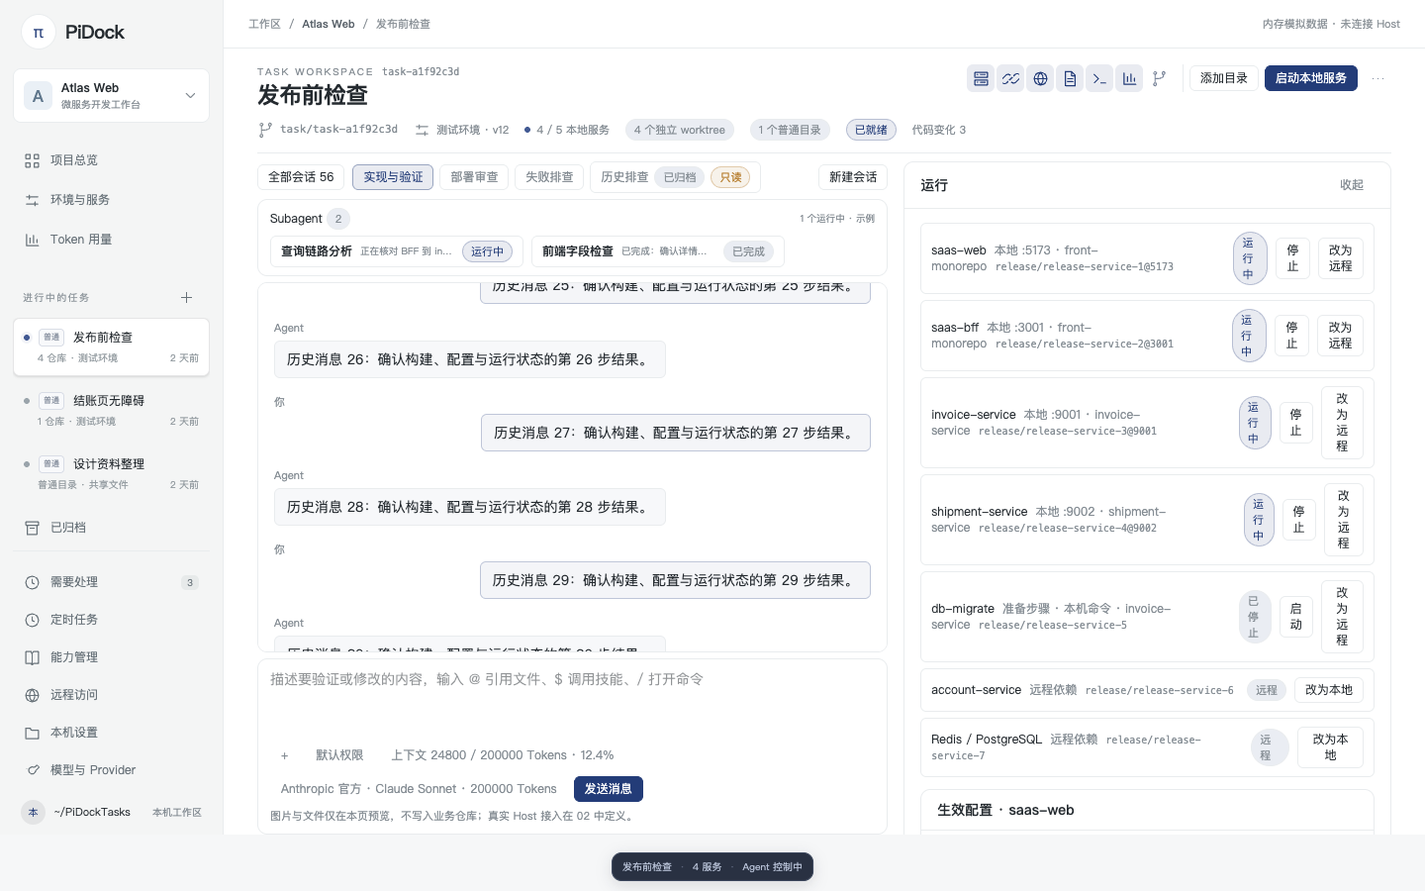
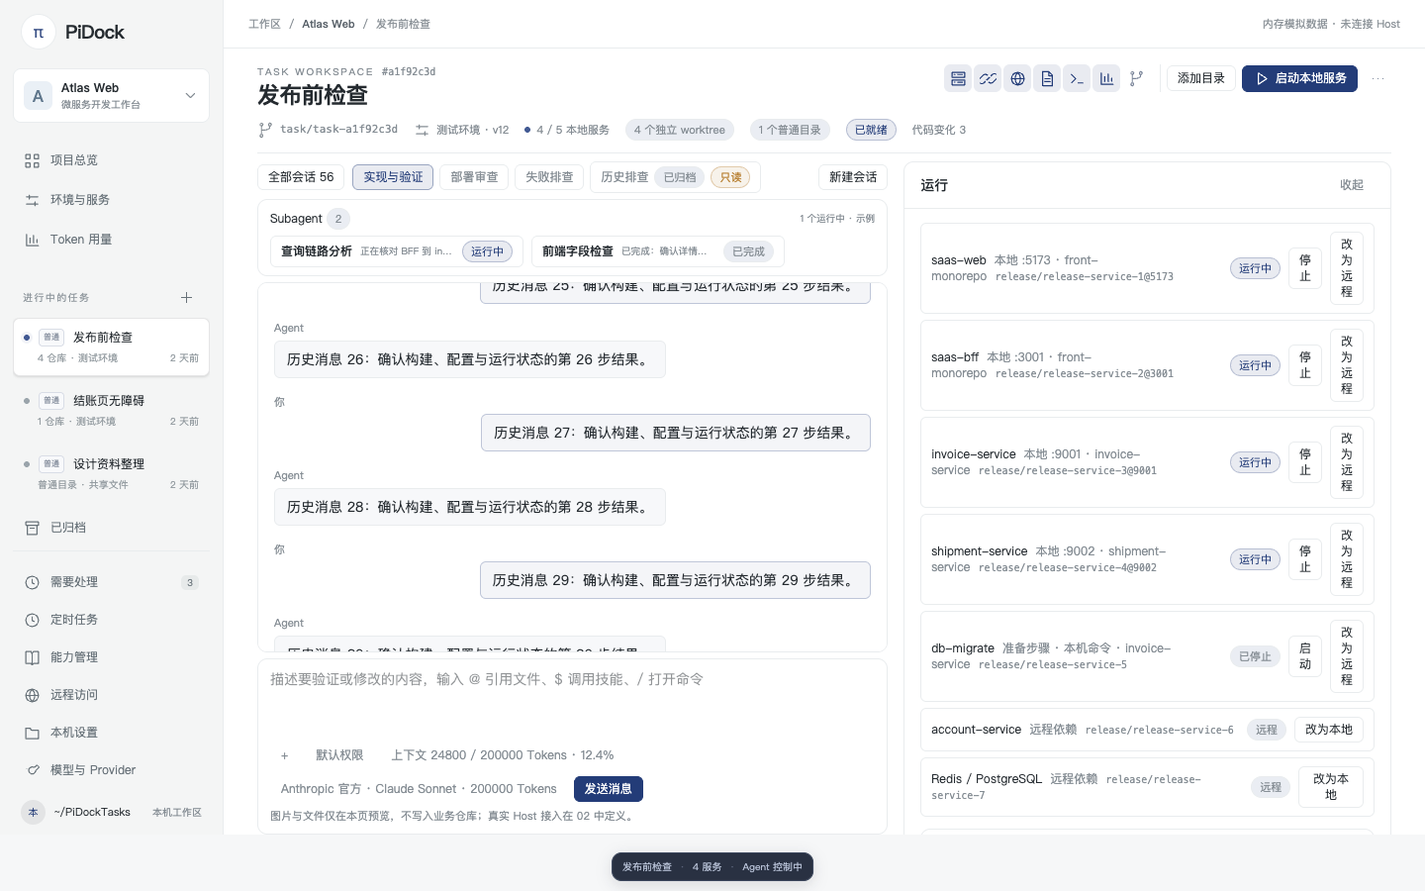
fix(renderer): close S2 review notes on tab wrap, a11y and evidence accuracy (#27)
Review follow-up for [#27], renderer only plus the slice's evidence:

- Badge: `whitespace-nowrap`. A squeezed session tab wrapped its CJK badge
  (已归档/只读/write-role) onto a second line and grew the 32px tab row to
  48px whenever the tool panel narrowed the column. All 9 measured states
  (3 viewports x 3 panel states) are 32px again, and the 1280/1024
  panel-open states recover 16px of message area (1280 358->374,
  1024 218->234).
- IconButton: emit `aria-pressed` only when the caller passes `selected`. The
  `···` menu trigger no longer announces itself as a toggle next to
  `aria-haspopup="menu"`; the tool launcher and the Subagent rail keep it.
- Icon: drop the unused `check` glyph; use `play`/`stop` on the run toggle
  (the prototype's `toggle-run` glyphs).
- Header eyebrow: `TASK WORKSPACE #<key>` instead of the bare workspace key.
  The product has no task ordinal, so the key (without its `task-` prefix)
  stands in for the prototype's `#001`; the full key stays in the `title`.
- Run toggle: always rendered for a Git task, `disabled` with an explanatory
  title when the task has no local service (prototype renders `toggle-run`
  unconditionally).
- Tests: new keyboard-open (Enter/Space) and `End` assertions, a no
  `aria-pressed` assertion on the menu trigger, the eyebrow form, and the
  disabled run toggle reached by switching every local service to remote.
  46 files / 395 tests (was 393).
[…]

diff --git a/packages/renderer/src/test/taskHeaderFlow.test.tsx b/packages/renderer/src/test/taskHeaderFlow.test.tsx
@@ -5,8 +5,8 @@ import { useHostStore } from "../stores/host";
 import { actStore, renderApp } from "./helpers";
 
 // Flow: [UI 对齐 03] (#27) the task header follows prototype A
-// (`prototypes/pidock-ui/app.js` `header()`): a `TASK WORKSPACE #nnn` eyebrow, the
-// title, one `actionset` (tool launcher icons, Subagent trigger, 添加目录, the
+// (`prototypes/pidock-ui/app.js` `header()`): a `TASK WORKSPACE #<key>` eyebrow,
+// the title, one `actionset` (tool launcher icons, Subagent trigger, 添加目录, the
 // local-service run toggle and the `···` 任务操作 menu) and a single `.meta` line.
 // The former second row of text buttons is gone, so every secondary action must
 // stay reachable through the menu — the mapping is asserted below.
@@ -74,6 +74,32 @@ describe("task header actionset", () => {
     expect(within(header).getByText("4 个独立 worktree")).toBeInTheDocument();
     expect(within(header).getByText("1 个普通目录")).toBeInTheDocument();
     expect(within(header).getByText("TASK WORKSPACE")).toBeInTheDocument();
+    // Prototype `TASK WORKSPACE #001`: the product has no ordinal, so the task
+    // key stands in (without the `task-` prefix) and the full key stays in the
+    // eyebrow's `title`.
+    expect(within(header).getByText("#a1f92c3d")).toBeInTheDocument();
+    expect(within(header).getByText("TASK WORKSPACE").closest("[title]")).toHaveAttribute(
+      "title",
+      expect.stringContaining("task-a1f92c3d"),
+    );
+  });
+
+  it("keeps the run toggle visible but disabled when the task has no local service", async () => {
+    renderApp("/projects/atlas/tasks/release?session=main");
+    await screen.findByRole("heading", { name: "发布前检查" });
+    // Flip every local service to the remote test environment through the
+    // existing seam; the prototype's `toggle-run` still renders.
+    const before = await useHostStore.getState().task("release");
+    const localIds = (before?.services ?? []).filter((service) => service.mode === "local").map((service) => service.id);
+    expect(localIds.length).toBeGreaterThan(0);
+    for (const id of localIds) {
+      await actStore(async () => {
+        await useHostStore.getState().setServiceMode("release", id, "remote");
+      });
+    }
+    const toggle = await screen.findByRole("button", { name: "启动本地服务" });
+    expect(toggle).toBeDisabled();
+    expect(toggle).toHaveAttribute("title", "当前任务没有本地服务");
   });
 });
 
@@ -103,6 +129,9 @@ describe("task 任务操作 menu", () => {
     await screen.findByRole("heading", { name: "发布前检查" });
 
     const trigger = screen.getByRole("button", { name: "任务操作" });
+    // The trigger is a menu button, not a toggle: it must not carry
+    // `aria-pressed` next to `aria-haspopup` (#27 review note).
+    expect(trigger).not.toHaveAttribute("aria-pressed");
     await user.click(trigger);
     const menu = await screen.findByRole("menu", { name: "任务操作" });
     const items = within(menu).getAllByRole("menuitem");
@@ -114,10 +143,29 @@ describe("task 任务操作 menu", () => {
     expect(items[items.length - 1]).toHaveFocus();
     await user.keyboard("{Home}");
     expect(items[0]).toHaveFocus();
+    await user.keyboard("{End}");
+    expect(items[items.length - 1]).toHaveFocus();
 
     await user.keyboard("{Escape}");
     expect(screen.queryByRole("menu", { name: "任务操作" })).not.toBeInTheDocument();
     await expect(trigger).toHaveFocus();
+  });
+
+  it("opens from the keyboard on the focused trigger and ignores a second Escape", async () => {
+    const user = userEvent.setup();
+    renderApp("/projects/atlas/tasks/release?session=main");
+    await screen.findByRole("heading", { name: "发布前检查" });
+
+    const trigger = screen.getByRole("button", { name: "任务操作" });
+    trigger.focus();
+    await user.keyboard("{Enter}");
+    expect(await screen.findByRole("menu", { name: "任务操作" })).toBeInTheDocument();
+    await user.keyboard("{Escape}");
+    expect(screen.queryByRole("menu", { name: "任务操作" })).not.toBeInTheDocument();
+
+    trigger.focus();
+    await user.keyboard("{ }");
+    expect(await screen.findByRole("menu", { name: "任务操作" })).toBeInTheDocument();
   });
 
   it("closes when a pointer press lands outside the menu", async () => {

diff --git a/packages/renderer/src/pages/TaskPage.tsx b/packages/renderer/src/pages/TaskPage.tsx
@@ -352,13 +352,22 @@ export function TaskPage({ task, sessionId }: { task: Task; sessionId: string })
             <Button size="sm" onClick={() => openModal({ type: "task-sources", taskId: task.id })}>
               添加目录
             </Button>
-            {localServices.length > 0 ? (
+            {/* Prototype `toggle-run` (`app.js` header) renders for every Git
+                task; with no local service there is nothing to start, so the
+                button stays visible but disabled and says why. */}
+            {!directoryOnly ? (
               <Button
                 size="sm"
                 variant={allRunning ? "default" : "primary"}
-                title={`${allRunning ? "停止" : "启动"}本任务的全部 ${localServices.length} 个本地服务`}
+                disabled={localServices.length === 0}
+                title={
+                  localServices.length === 0
+                    ? "当前任务没有本地服务"
+                    : `${allRunning ? "停止" : "启动"}本任务的全部 ${localServices.length} 个本地服务`
+                }
                 onClick={toggleLocalServices}
               >
+                <Icon name={allRunning ? "stop" : "play"} className="h-3.5 w-3.5" />
                 {allRunning ? "停止服务" : "启动本地服务"}
               </Button>
             ) : null}
@@ -527,8 +536,10 @@ const PANEL_ICONS: Record<ToolPanel, IconName> = {
  * dev/memory, `task.json` through the shell); errors stay bound to this
  * task id so a failure never surfaces as another task's header.
  *
- * [UI 对齐 03] (#27) the prototype's `.taskheader`: `TASK WORKSPACE #nnn`
- * eyebrow, `h1`, one `actionset` (passed in — the tool launcher, 添加目录, the
+ * [UI 对齐 03] (#27) the prototype's `.taskheader`: `TASK WORKSPACE #<key>`
+ * eyebrow (the prototype's `#001` ordinal does not exist in the product, so the
+ * task key stands in; the full `workspaceKey` stays in the eyebrow's `title`),
+ * `h1`, one `actionset` (passed in — the tool launcher, 添加目录, the
  * local-service run toggle and the `···` menu) and a single `.meta` line
  * (branch / environment·version / running local services / worktree+directory
  * badges). The former second row of text buttons is gone; repository names and
@@ -583,6 +594,10 @@ function TaskHeader({ task, actions }: { task: Task; actions: ReactNode }) {
   }, [adapter, task.id]);
   const changedCount = task.files.length;
   const directoryOnly = task.repos.length === 0 && task.directories.length > 0;
+  // Prototype eyebrow is a `TASK WORKSPACE` label plus a number; the product
+  // has no ordinal, so the task key stands in for it, prefixed with `#` (the
+  // full `task-…` key stays in the eyebrow's `title`).
+  const eyebrowKey = task.workspaceKey.replace(/^task-/, "");
   const workspace = useHostStore((state) => state.workspace);
   const environmentName =
     workspace?.environments.find((item) => item.id === task.environmentId)?.name ?? task.environmentId;
@@ -607,7 +622,10 @@ function TaskHeader({ task, actions }: { task: Task; actions: ReactNode }) {
             ) : (
               <>
                 TASK WORKSPACE
-                <span className="ml-2 font-mono tracking-normal normal-case">{task.workspaceKey}</span>
+                {/* Prototype `TASK WORKSPACE #001`: the product has no task
+                    ordinal, so the eyebrow shows the task key without its
+                    `task-` prefix; the full `workspaceKey` stays in the title. */}
+                <span className="ml-2 font-mono tracking-normal normal-case">#{eyebrowKey}</span>
               </>
             )}
           </div>

diff --git a/packages/renderer/src/components/ui.tsx b/packages/renderer/src/components/ui.tsx
@@ -27,12 +27,16 @@ export function Button({ variant = "default", size = "md", className = "", ...re
  * uses the soft accent). `aria-label` is the accessible name; `title` carries
  * the longer action wording when the two differ. `ref` arrives as a plain prop
  * (React 19) and is spread onto the button, so callers can manage focus.
+ * `aria-pressed` is emitted only when the caller passes `selected`: a toggle
+ * (tool launcher, Subagent rail) needs it, while a menu trigger must not
+ * announce itself as a toggle next to `aria-haspopup` ([UI 对齐 03] #27 review
+ * note).
  */
 export function IconButton({
   icon,
   label,
   title,
-  selected = false,
+  selected,
   className = "",
   ...rest
 }: ComponentPropsWithRef<"button"> & {
@@ -48,7 +52,14 @@ export function IconButton({
     className,
   ].join(" ");
   return (
-    <button type="button" aria-label={label} title={title ?? label} aria-pressed={selected} className={classes} {...rest}>
+    <button
+      type="button"
+      aria-label={label}
+      title={title ?? label}
+      {...(selected === undefined ? {} : { "aria-pressed": selected })}
+      className={classes}
+      {...rest}
+    >
       <Icon name={icon} />
     </button>
   );
@@ -61,7 +72,11 @@ export function Badge({ children, tone = "neutral" }: { children: ReactNode; ton
     warn: "border-orange/35 bg-orange/10 text-orange",
   } as const;
   return (
-    <span className={`inline-flex items-center rounded-full border px-2 py-0.5 text-[11px] leading-4 ${tones[tone]}`}>
+    // `whitespace-nowrap`: a squeezed tab strip must not wrap a CJK badge onto a
+    // second line and grow the 32px session row ([UI 对齐 03] #27 review note).
+    <span
+      className={`inline-flex items-center rounded-full border px-2 py-0.5 text-[11px] leading-4 whitespace-nowrap ${tones[tone]}`}
+    >
       {children}
     </span>
   );

diff --git a/packages/renderer/src/test/modals.test.tsx b/packages/renderer/src/test/modals.test.tsx
@@ -93,7 +93,12 @@ describe("new-task workspace preview", () => {
     await user.click(within(dialog).getByRole("button", { name: "创建任务" }));
 
     expect(await screen.findByRole("heading", { name: "预览键校验" })).toBeInTheDocument();
-    expect(screen.getByText(key)).toBeInTheDocument();
+    // [UI 对齐 03] (#27) the header eyebrow shows the task key with a `#`
+    // instead of the prototype's ordinal, and keeps the full key in its title:
+    // the created task still displays the key the form previewed.
+    const eyebrow = screen.getByText(key.replace(/^task-/, "#"));
+    expect(eyebrow).toBeInTheDocument();
+    expect(eyebrow.closest("[title]")).toHaveAttribute("title", expect.stringContaining(key));
   });
 
   it("keeps the form on blank baseline: no orphan task", async () => {

diff --git a/packages/renderer/src/components/Icon.tsx b/packages/renderer/src/components/Icon.tsx
@@ -6,6 +6,8 @@
  * the glyphs the shell uses are kept here; pages add their own when they are
  * aligned. `link` is the protocol glyph: the prototype has no protocol tool,
  * and the 协议 panel is about generated artifacts and their local bindings.
+ * `play`/`stop` are the prototype's `toggle-run` glyphs, used by the header's
+ * local-service run toggle ([UI 对齐 03] #27).
  */
 
 export const ICON_PATHS = {
@@ -28,7 +30,6 @@ export const ICON_PATHS = {
   more: "M5 12h.01 M12 12h.01 M19 12h.01",
   play: "M8 4l12 8-12 8Z",
   stop: "M5 5h14v14H5z",
-  check: "M5 12l4 4L19 6",
 } as const;
 
 export type IconName = keyof typeof ICON_PATHS;

diff --git a/docs/evidence/ui-alignment-s2/verification-log.md b/docs/evidence/ui-alignment-s2/verification-log.md
@@ -7,22 +7,23 @@
 node docs/evidence/ui-alignment-s2/capture-vertical.mjs
 ```
 
-产物：`vertical-budget.json`（逐区块高度 / 消息区高度与占比 / 横向溢出）、`renderer/*.png`（渲染层 1440×900 三种面板状态 + `任务操作` 菜单 + 普通目录任务）、`prototype/1440-prototype-A.png`（原型对照）。脚本输出写回本目录，可在任意 cwd 重跑。
+产物：`vertical-budget.json`（逐区块高度 / 消息区高度与占比 / 横向溢出，**9 组状态** = 3 视口 × 3 面板态）、`renderer/*.png`（渲染层 **5 张**：1440×900 三种面板状态 + `任务操作` 菜单 + 普通目录任务）、`prototype/1440-prototype-A.png`（原型对照，1 张）。脚本输出写回本目录，可在任意 cwd 重跑。
 
 ## 1. 验收结论
 
 | # | 验收项 | 结论 | 证据 |
 | --- | --- | --- | --- |
-| 1 | 头部按原型：`TASK WORKSPACE #nnn` eyebrow + 大标题 + 图标工具条 + 添加目录 + 启动/停止服务 + `···` + 单行 chips | COVERED | `TaskPage.tsx` 的 `TaskHeader`、`components/IconButton`（`ui.tsx`）、`components/TaskActionMenu.tsx`；截图 `renderer/1440-closed.png`；eyebrow 实测文本 `TASK WORKSPACE task-a1f92c3d`（原型 `TASK WORKSPACE #001`，本任务无序号，改用 workspaceKey） |
+| 1 | 头部按原型：`TASK WORKSPACE #<key>` eyebrow + 大标题 + 图标工具条 + 添加目录 + 启动/停止服务 + `···` + 单行 chips | COVERED | `TaskPage.tsx` 的 `TaskHeader`、`components/IconButton`（`ui.tsx`）、`components/TaskActionMenu.tsx`；截图 `renderer/1440-closed.png`；eyebrow 实测文本 `TASK WORKSPACE #a1f92c3d`（原型 `TASK WORKSPACE #001`；产品无任务序号，用去掉 `task-` 前缀的任务键充当，完整 `workspaceKey` 保留在 eyebrow 的 `title`） |
 | 2 | 原文字按钮行消失；所有原入口仍可达 | COVERED | 见 §3 映射表；`taskHeaderFlow.test.tsx` 断言 `getAllByRole("button",{name:"运行"})` 长度 1、未开菜单时不存在「归档当前任务」「审阅与交付」按钮 |
-| 3 | `···` 收纳次要/破坏性动作，键盘可达 | COVERED | 菜单实测项：`["重命名任务","新建会话","查看全部会话","Subagent 列表（2）","管理仓库与目录","审阅与交付","归档当前任务"]`（`vertical-budget.json.menuItems`）；用例覆盖 Enter/Space 打开、方向键/Home/End 循环、Esc 关闭并回焦、点击外部关闭 |
+| 3 | `···` 收纳次要/破坏性动作，键盘可达 | COVERED | 菜单实测项：`["重命名任务","新建会话","查看全部会话","Subagent 列表（2）","管理仓库与目录","审阅与交付","归档当前任务"]`（`vertical-budget.json.menuItems`）；用例实测覆盖：点击打开、**Enter/Space 打开**（`taskHeaderFlow.test.tsx` 新增用例）、首项聚焦、`↓`/`↑`（含回绕）、`Home`、**`End`**、Esc 关闭并回焦、点击外部关闭；触发器不再带 `aria-pressed`（新增断言） |
 | 4 | 纵向预算：1440×900 无面板 ≥400px（≥45%）；1 个面板 ≥330px | COVERED | **无面板 408px（45.3%）**、**1 个面板 374px（41.5%）**、6 个面板 374px（`vertical-budget.json.states["1440x900-*"]`） |
 | 5 | Subagent 卡区不常占高度 | COVERED | 仅在当前会话存在 Subagent 时渲染（`TaskPage.tsx` 条件 + `SessionSubagentList` 空数组返回 null，`restoredFlows.test.tsx`「切换会话后子代理列表消失」用例仍覆盖），且压缩为单行卡片：122px → **78px**（原型同区块 117px） |
 | 6 | 输入区不因本切片变高（≤150px @1440×900 空内容） | COVERED（含披露） | 无面板 **145px** ✓；打开面板时 **179px** —— 该增长在切片前基线同样存在（窄列下两个控件簇折行），属 S4「输入框与附件」范围，本切片未改输入区 |
-| 7 | 会话标签改用 `below-*` 断点 | COVERED | `TaskPage.tsx` 非活跃标签 `flex below-mid:hidden`（原 `hidden md:flex`）；标签行改为不折行（48px → **32px**） |
+| 7 | 会话标签改用 `below-*` 断点 | COVERED | `TaskPage.tsx` 非活跃标签 `flex below-mid:hidden`（原 `hidden md:flex`）；标签行改为不折行：`Badge` 加 `whitespace-nowrap` 后 **9 组状态全部 32px**（修复前 1280/1024 开面板时为 48px，见 §2） |
 | 8 | 底部摘要栏按时降级 | COVERED | `ShellSummaryBar.tsx`：≤960 隐藏浏览器控制者段、≤720 隐藏服务段并收紧 padding/gap（原型 `.switcher .state{display:none}`、`@media(max-width:720px){.switcher{gap:2px;padding:6px}}`） |
 | 9 | 顺带修 #26 两条 P2 | COVERED | `Shell.tsx`：页类页面中间档改四边 `p-[25px]`；子代理独立栏 ≤720 改 `below-stack:min-h-[620px]`（原型 `.subagent-sidebar{height:620px}`），工具面板仍 `below-stack:min-h-[500px]` |
-| 10 | 既有用例零回归 + 新增用例 | COVERED | renderer **46 文件 / 393 例**（切片前 45/384，新增 `taskHeaderFlow.test.tsx` 9 例）；唯一改动既有用例：`restoredFlows.test.tsx` 交付流程改从菜单进入（入口按本切片迁移，断言未减弱） |
+| 9b | 原型保真补充：非普通目录任务的 `启动/停止服务` 始终渲染 | COVERED | 无本地服务时 `disabled` + `title="当前任务没有本地服务"`（原型 `toggle-run` 无条件渲染）；用例：把全部本地服务切为 `remote` 后断言按钮存在、禁用、title 正确 |
+| 10 | 既有用例零回归 + 新增用例 | COVERED | renderer **46 文件 / 395 例**（切片前 45/384；`taskHeaderFlow.test.tsx` 9 → 11 例）；改动既有用例 2 处，断言未减弱：`restoredFlows.test.tsx` 交付流程改从菜单进入（入口按本切片迁移），`modals.test.tsx`「新建任务后显示预览键」改为断言 `#<key>` 形式 + `title` 仍含完整 `task-…` 键 |
 | 11 | 证据提交进 `docs/evidence/**` | COVERED | 本目录 |
 | 12 | 门禁全绿 | COVERED | §4 |
 
@@ -36,18 +37,28 @@ node docs/evidence/ui-alignment-s2/capture-vertical.mjs
 | 1440×900 1 面板 · 消息区 | 237px | **374px（41.5%）** |
 | 1440×900 无面板 · 头部（含原文字按钮行） | 45 + 26 = 71px | **106px**（单块，含 eyebrow/标题/actionset/meta） |
 | 1440×900 1 面板 · 头部 | 63 + 42 = 105px | **106px**（与宽度无关） |
-| 1440×900 会话标签行 | 32px | 32px（1280 时由 48 → 32） |
+| 1440×900 会话标签行 | 32px | 32px |
 | 1440×900 Subagent 卡区 | 122px | **78px** |
 | 1440×900 输入区 | 145px（无面板）/ 179px（有面板） | 145px / 179px（未改） |
-| 横向溢出 | 无 | 无（12 组状态全部 `noHorizontalOverflow = true`） |
+| 横向溢出 | 无 | 无（**9 组状态**全部 `noHorizontalOverflow = true`） |
+
+### 收尾修复轮（标签行折行，`Badge` 加 `whitespace-nowrap` 前后）
+
+| 状态 | 标签行 before | 标签行 after | 消息区 before | 消息区 after |
+| --- | --- | --- | --- | --- |
+| 1440×900 closed / one / all | 32 / 32 / 32 | 32 / 32 / 32 | 408 / 374 / 374 | 408 / 374 / 374 |
+| 1280×900 closed / one / all | 32 / **48** / **48** | 32 / **32** / **32** | 408 / 358 / 358 | 408 / **374** / **374** |
+| 1024×800 closed / one / all | 32 / **48** / **48** | 32 / **32** / **32** | 274 / 218 / 218 | 274 / **234** / **234** |
+
+根因：压缩后的会话标签内 CJK `Badge`（`已归档`/`只读`/写入角色）可折行，把 32px 标签行撑到 48px；`Badge` 加 `whitespace-nowrap` 后全部状态回到 32px，窄档消息区因此回收 16px。1440×900 的验收指标未受影响（每档均为 32px）。
 
 ### 各档全量（本切片）
 
 | 视口 | 无面板 | 1 面板 | 6 面板 |
 | --- | --- | --- | --- |
 | 1440×900 | 408px（45.3%） | 374px（41.5%） | 374px |
-| 1280×900 | 408px（45.3%） | 358px（39.7%） | 358px |
-| 1024×800 | 274px（34.2%） | 218px | 218px |
+| 1280×900 | 408px（45.3%） | 374px（41.5%） | 374px |
+| 1024×800 | 274px（34.2%） | 234px | 234px |
 
 1000px 以上头部恒为 **106px**（原型结构：`.taskheader` 位于对话/工具栏分栏之上，宽度与是否开面板无关）。
 
@@ -80,8 +91,8 @@ node docs/evidence/ui-alignment-s2/capture-vertical.mjs
 
 ## 4. 机制与改动文件
 
-- `packages/renderer/src/components/ui.tsx`：新增 `IconButton`（原型 `.iconbtn` 28px、hover `#e9eded`、选中用柔和强调色；React 19 下 `ref` 作为普通 prop 传入）。
-- `packages/renderer/src/components/Icon.tsx`：新增 `branch/server/terminal/file/link/more/play/stop/check`（路径取自原型 `app.js` `paths`）；协议面板用 `link`（原型无协议工具，见文件内注释）。
+- `packages/renderer/src/components/ui.tsx`：新增 `IconButton`（原型 `.iconbtn` 28px、hover `#e9eded`、选中用柔和强调色；React 19 下 `ref` 作为普通 prop 传入）；`aria-pressed` 仅在显式传入 `selected` 时输出（菜单触发器不再自称开关）；`Badge` 加 `whitespace-nowrap`（窄栏不折行）。
+- `packages/renderer/src/components/Icon.tsx`：新增 `branch/server/terminal/file/link/more/play/stop`（路径取自原型 `app.js` `paths`）；协议面板用 `link`（原型无协议工具，见文件内注释）；`play`/`stop` 用于头部的本地服务开关（原型 `toggle-run`）；未使用的 `check` 已删。
 - `packages/renderer/src/components/TaskActionMenu.tsx`：`···` 菜单（`role="menu"`、首项聚焦、方向键/Home/End、Esc 回焦、外点关闭）。
 - `packages/renderer/src/pages/TaskPage.tsx`：头部重写；删除文字按钮行；头部移到 `task-body` 之上（原型 `.main > .taskheader + .taskbody`）；工具条图标按钮；本地服务批量开关；会话标签断点与不折行；子代理栏 ≤720 高度；子代理卡片压缩为单行。
 - `packages/renderer/src/components/ToolPanels.tsx`：`SessionSubagentList` 单行卡片（摘要以 `title` 保留）。
@@ -93,14 +104,17 @@ node docs/evidence/ui-alignment-s2/capture-vertical.mjs
 ```
 Tasks:    8 successful, 8 total
 @pidock/shell:    Test Files 54 passed (54)   Tests 801 passed (801)
-@pidock/renderer: Test Files 46 passed (46)   Tests 393 passed (393)
+@pidock/renderer: Test Files 46 passed (46)   Tests 395 passed (395)
 ```
+
+（收尾修复轮后重跑：renderer 46 文件 / 395 例；shell 未改动，54 / 801。）
 
 ## 6. 未测 / 未做（如实记录）
 
 1. **输入区在有工具面板时为 179px**（>150px）：折行来自输入区两个控件簇（`上下文 …`、`模型 …` 标签过长），切片前基线同样如此；属 S4「输入框与附件」范围，本切片未改输入区。1440×900 无面板时为 145px ✓。
-2. **1024×800 档消息区 218-274px**：验收只对 1440×900 定指标；1024 是 S0 的降级档，此处仍可用但更紧凑。
+2. **1024×800 档消息区 234-274px**：验收只对 1440×900 定指标；1024 是 S0 的降级档，此处仍可用但更紧凑。
 3. **未在 Electron 打包运行时验证**：全部几何数据来自 dev server（4335）+ headless Chromium；`minWidth` 窗口行为属 S0（#26）。
 4. **未做像素级对比**：只比结构、文本、区块高度与可访问名，未做图像 diff。
 5. **`重命名任务` / `查看全部会话` / `新建会话` 菜单项**：复用既有模态与既有 `createSession`；菜单本身的键盘用例覆盖，但「新建会话」在菜单中的创建结果未单独断言（既有会话标签的创建流程仍有用例）。
-6. 原型数值取自 4319 原型服务（只读），未修改 `prototypes/**`。
+6. **无本地服务的任务**：种子任务均有本地服务，`启动/停止服务` 的 `disabled` 分支只在把全部本地服务切为 `remote` 后可达（用例即这么做）；真实仓库中零本地服务任务的头部观感未做截图。
+7. 原型数值取自 4319 原型服务（只读），未修改 `prototypes/**`。
